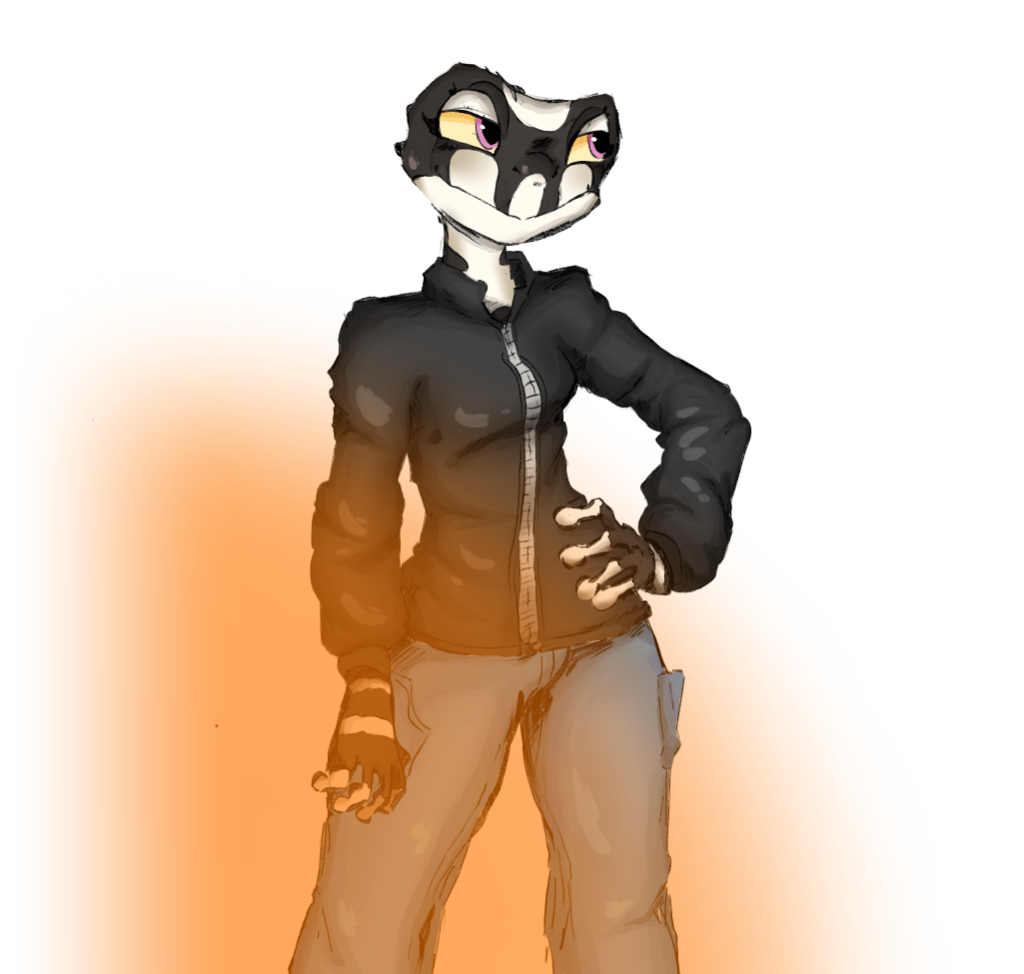
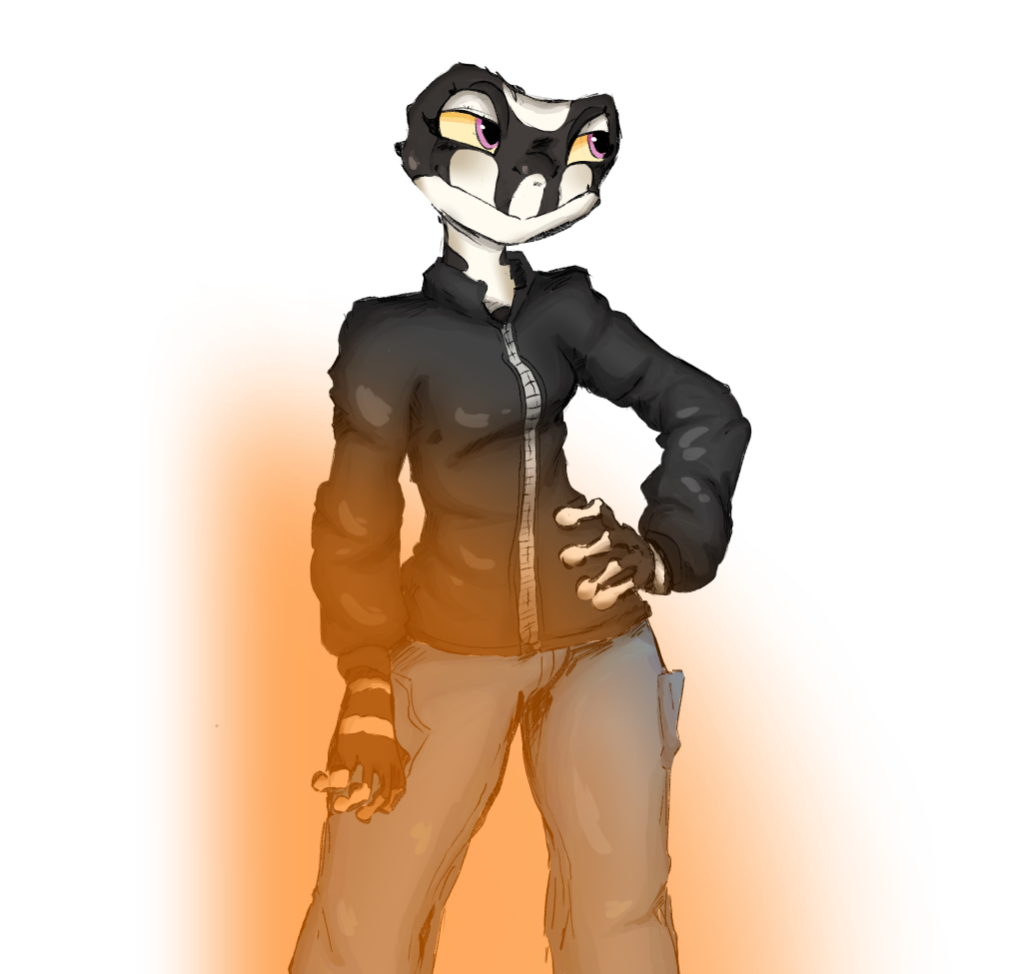
Aumenta intensidade do fade da Pera com curva quintica e margem transparente total (v1.4.7)

Changed region(s): [[0.0312, 0.3696, 0.25, 1.0]]

diff --git a/changelog.html b/changelog.html
@@ -369,7 +369,7 @@
 
           <div class="changelog-entry">
             <div class="changelog-header">
-              <span class="changelog-version-badge">v1.4.6</span>
+              <span class="changelog-version-badge">v1.4.7</span>
               <span class="changelog-version">Expans&atilde;o de Selos &amp; Balanceamento do Bestial</span>
             </div>
             <div class="changelog-date">12 de Agosto de 2026</div>
@@ -404,13 +404,13 @@
               <span class="tag-change" style="margin-left: var(--space-sm);">mudan&ccedil;a</span> Selos podem ser conjurados sem componentes ao marcar o corpo do consagrado.
               <span class="tag-change" style="margin-left: var(--space-sm);">mudan&ccedil;a</span> Alcat&eacute;ia Impar&aacute;vel limitada a +2 (Bestial).
               <span class="tag-change" style="margin-left: var(--space-sm);">mudan&ccedil;a</span> CDs padronizadas nos selos com teste.
-              <span class="tag-change" style="margin-left: var(--space-sm);">mudan&ccedil;a</span> Vers&atilde;o do sistema atualizada para v1.4.6.
+              <span class="tag-change" style="margin-left: var(--space-sm);">mudan&ccedil;a</span> Vers&atilde;o do sistema atualizada para v1.4.7.
             </div>
           </div>
 
           <div class="changelog-entry">
             <div class="changelog-header">
-              <span class="changelog-version-badge">v1.4.6</span>
+              <span class="changelog-version-badge">v1.4.7</span>
               <span class="changelog-version">Vida Fixa por N&iacute;vel</span>
             </div>
             <div class="changelog-date">7 de Agosto de 2026</div>
@@ -436,13 +436,13 @@
               <span class="tag-change">mudan&ccedil;a</span> Dados de Vida removidos de todas as classes.
               <span class="tag-change" style="margin-left: var(--space-sm);">mudan&ccedil;a</span> Vida fixa por n&iacute;vel (Base &times; N&iacute;vel + Sa&uacute;de).
               <span class="tag-change" style="margin-left: var(--space-sm);">mudan&ccedil;a</span> O Eterno agora vale 8 + Sa&uacute;de por n&iacute;vel.
-              <span class="tag-change" style="margin-left: var(--space-sm);">mudan&ccedil;a</span> Vers&atilde;o do sistema atualizada para v1.4.6.
+              <span class="tag-change" style="margin-left: var(--space-sm);">mudan&ccedil;a</span> Vers&atilde;o do sistema atualizada para v1.4.7.
             </div>
           </div>
 
           <div class="changelog-entry">
             <div class="changelog-header">
-              <span class="changelog-version-badge">v1.4.6_2</span>
+              <span class="changelog-version-badge">v1.4.7_2</span>
               <span class="changelog-version">Revis&atilde;o do Espectro</span>
             </div>
             <div class="changelog-date">18 de Junho de 2026</div>
@@ -461,13 +461,13 @@
               <span class="tag-change">mudan&ccedil;a</span> Estabilidade do Espectro sem limite m&aacute;ximo.
               <span class="tag-change" style="margin-left: var(--space-sm);">mudan&ccedil;a</span> Espectro n&atilde;o pode receber cura.
               <span class="tag-change" style="margin-left: var(--space-sm);">mudan&ccedil;a</span> Restri&ccedil;&otilde;es: Espectro n&atilde;o pode usar Protegidos e Sobrevivente.
-              <span class="tag-change" style="margin-left: var(--space-sm);">mudan&ccedil;a</span> Vers&atilde;o do sistema atualizada para v1.4.6_2.
+              <span class="tag-change" style="margin-left: var(--space-sm);">mudan&ccedil;a</span> Vers&atilde;o do sistema atualizada para v1.4.7_2.
             </div>
           </div>
 
           <div class="changelog-entry">
             <div class="changelog-header">
-              <span class="changelog-version-badge">v1.4.6_1</span>
+              <span class="changelog-version-badge">v1.4.7_1</span>
               <span class="changelog-version">Ilustra&ccedil;&otilde;es das Classes &amp; Ajustes</span>
             </div>
             <div class="changelog-date">18 de Junho de 2026</div>
@@ -492,13 +492,13 @@
               <span class="tag-change" style="margin-left: var(--space-sm);">mudan&ccedil;a</span> Lore da Centelha do Eterno expandido.
               <span class="tag-change" style="margin-left: var(--space-sm);">mudan&ccedil;a</span> Restri&ccedil;&atilde;o: Espectro + Eterno proibido.
               <span class="tag-fix" style="margin-left: var(--space-sm);">corre&ccedil;&atilde;o</span> "marcados" n&atilde;o &eacute; mais tratado como condi&ccedil;&atilde;o.
-              <span class="tag-change" style="margin-left: var(--space-sm);">mudan&ccedil;a</span> Vers&atilde;o do sistema atualizada para v1.4.6_1.
+              <span class="tag-change" style="margin-left: var(--space-sm);">mudan&ccedil;a</span> Vers&atilde;o do sistema atualizada para v1.4.7_1.
             </div>
           </div>
 
           <div class="changelog-entry">
             <div class="changelog-header">
-              <span class="changelog-version-badge">v1.4.6</span>
+              <span class="changelog-version-badge">v1.4.7</span>
               <span class="changelog-version">Revis&atilde;o do Lampin&aacute;rio &amp; Guias de Classe</span>
             </div>
             <div class="changelog-date">18 de Junho de 2026</div>
@@ -518,13 +518,13 @@
               <span class="tag-change" style="margin-left: var(--space-sm);">mudan&ccedil;a</span> Lampin&aacute;rio: ND 3 &rarr; 5.
               <span class="tag-change" style="margin-left: var(--space-sm);">mudan&ccedil;a</span> Lampin&aacute;rio: habilidades reestruturadas no padr&atilde;o "escolhe 1 de 2".
               <span class="tag-new" style="margin-left: var(--space-sm);">novo</span> Guias de classe para todas as 13 classes.
-              <span class="tag-change" style="margin-left: var(--space-sm);">mudan&ccedil;a</span> Vers&atilde;o do sistema atualizada para v1.4.6.
+              <span class="tag-change" style="margin-left: var(--space-sm);">mudan&ccedil;a</span> Vers&atilde;o do sistema atualizada para v1.4.7.
             </div>
           </div>
 
           <div class="changelog-entry">
             <div class="changelog-header">
-              <span class="changelog-version-badge">v1.4.6</span>
+              <span class="changelog-version-badge">v1.4.7</span>
               <span class="changelog-version">Rea&ccedil;&otilde;es Elementares</span>
             </div>
             <div class="changelog-date">18 de Junho de 2026</div>
@@ -537,13 +537,13 @@
             <div class="changelog-tag-row">
               <span class="tag-new">novo</span> Sistema de Rea&ccedil;&otilde;es Elementares (exclusivo Lampin&aacute;rio).
               <span class="tag-new" style="margin-left: var(--space-sm);">novo</span> Frequ&ecirc;ncia Elemental expandida para 9 elementos.
-              <span class="tag-change" style="margin-left: var(--space-sm);">mudan&ccedil;a</span> Vers&atilde;o do sistema atualizada para v1.4.6.
+              <span class="tag-change" style="margin-left: var(--space-sm);">mudan&ccedil;a</span> Vers&atilde;o do sistema atualizada para v1.4.7.
             </div>
           </div>
 
           <div class="changelog-entry">
             <div class="changelog-header">
-              <span class="changelog-version-badge">v1.4.6</span>
+              <span class="changelog-version-badge">v1.4.7</span>
               <span class="changelog-version">Classe O Eterno & Gloss&aacute;rio</span>
             </div>
             <div class="changelog-date">17 de Junho de 2026</div>
@@ -573,13 +573,13 @@
               <span class="tag-new" style="margin-left: var(--space-sm);">novo</span> Classe Lampin&aacute;rio com 4 Turmas.
               <span class="tag-new" style="margin-left: var(--space-sm);">novo</span> Gloss&aacute;rio de termos.
               <span class="tag-new" style="margin-left: var(--space-sm);">novo</span> &Iacute;ndice inicial reformulado com se&ccedil;&otilde;es e todas as p&aacute;ginas.
-              <span class="tag-change" style="margin-left: var(--space-sm);">mudan&ccedil;a</span> Vers&atilde;o do sistema atualizada para v1.4.6.
+              <span class="tag-change" style="margin-left: var(--space-sm);">mudan&ccedil;a</span> Vers&atilde;o do sistema atualizada para v1.4.7.
             </div>
           </div>
 
           <div class="changelog-entry">
             <div class="changelog-header">
-              <span class="changelog-version-badge">v1.4.6</span>
+              <span class="changelog-version-badge">v1.4.7</span>
               <span class="changelog-version">Condi&ccedil;&otilde;es Interativas & Criador Reformulado</span>
             </div>
             <div class="changelog-date">16 de Junho de 2026</div>
@@ -605,13 +605,13 @@
             </div>
 
             <div class="changelog-tag-row">
-              <span class="tag-change">mudança</span> Versão do sistema atualizada para v1.4.6.
+              <span class="tag-change">mudança</span> Versão do sistema atualizada para v1.4.7.
             </div>
           </div>
 
           <div class="changelog-entry">
             <div class="changelog-header">
-              <span class="changelog-version-badge">v1.4.6</span>
+              <span class="changelog-version-badge">v1.4.7</span>
               <span class="changelog-version">Raça Espectro</span>
             </div>
             <div class="changelog-date">14 de Junho de 2026</div>
@@ -621,7 +621,7 @@
               <li><span class="tag-new">novo</span> Mecânicas únicas: Estabilidade Cósmica (1d4), Instável (5 testes de morte, CT 19), Estalo de Estática (reações extras).</li>
               <li><span class="tag-new">novo</span> Vínculo de Anomalia com 4 ramificações: Desbordamento, Deslocamento, Corrupção de Arquivo e Tela Azul.</li>
               <li><span class="tag-new">novo</span> Habilidades nativas: Incorporação e Visão Espectral.</li>
-              <li><span class="tag-change">mudança</span> Versão do sistema atualizada para v1.4.6.</li>
+              <li><span class="tag-change">mudança</span> Versão do sistema atualizada para v1.4.7.</li>
             </ul>
           </div>
 

diff --git a/js/mesa.js b/js/mesa.js
@@ -1036,8 +1036,8 @@ const MesaApp = {
       raca: 'Animalesco',
       arquetipo: 'Rebelde',
       classe: 'Adivinha',
-      imagem: 'assets/pera.png?v=1.4.6',
-      avatar: 'assets/pera_avatar.png?v=1.4.6',
+      imagem: 'assets/pera.png?v=1.4.7',
+      avatar: 'assets/pera_avatar.png?v=1.4.7',
       hp: 12, hpMax: 12,
       pe: 10, peMax: 10,
       st: 0, stMax: 24,
@@ -1066,7 +1066,7 @@ const MesaApp = {
       id: 5,
       slot: 5,
       token: 'J8W4',
-      nome: 'Willian Kars', idade: '17 anos', altura: '1,86m', raca: 'Animalesco', arquetipo: 'Valentão', imagem: 'assets/william.png?v=1.4.6', avatar: 'assets/william_avatar.png?v=1.4.6',
+      nome: 'Willian Kars', idade: '17 anos', altura: '1,86m', raca: 'Animalesco', arquetipo: 'Valentão', imagem: 'assets/william.png?v=1.4.7', avatar: 'assets/william_avatar.png?v=1.4.7',
       hp: 15, hpMax: 15,
       pe: 10, peMax: 10,
       st: 0, stMax: 28,
@@ -1371,7 +1371,7 @@ const MesaApp = {
 
       if (!this.state.players[3]) {
         this.state.players[3] = {
-          id: 4, slot: 4, token: 'H2Q9', nome: 'Pera Hylidae da Silva', idade: '18 anos', altura: '1,58m', raca: 'Animalesco', arquetipo: 'Rebelde', classe: 'Adivinha', imagem: 'assets/pera.png?v=1.4.6', avatar: 'assets/pera_avatar.png?v=1.4.6',
+          id: 4, slot: 4, token: 'H2Q9', nome: 'Pera Hylidae da Silva', idade: '18 anos', altura: '1,58m', raca: 'Animalesco', arquetipo: 'Rebelde', classe: 'Adivinha', imagem: 'assets/pera.png?v=1.4.7', avatar: 'assets/pera_avatar.png?v=1.4.7',
           hp: 12, hpMax: 12, pe: 10, peMax: 10, st: 0, stMax: 24, stressPoints: 0, stressPointsMax: 6,
           atributos: { 'Mente': 'd4', 'Saúde': 'd8', 'Vigor': 'd12', 'Força': 'd16' },
           bonus: [
@@ -1389,7 +1389,7 @@ const MesaApp = {
 
       if (!this.state.players[4]) {
         this.state.players[4] = {
-          id: 5, slot: 5, token: 'J8W4', nome: 'Willian Kars', idade: '17 anos', altura: '1,86m', raca: 'Animalesco', arquetipo: 'Valentão', imagem: 'assets/william.png?v=1.4.6', avatar: 'assets/william_avatar.png?v=1.4.6',
+          id: 5, slot: 5, token: 'J8W4', nome: 'Willian Kars', idade: '17 anos', altura: '1,86m', raca: 'Animalesco', arquetipo: 'Valentão', imagem: 'assets/william.png?v=1.4.7', avatar: 'assets/william_avatar.png?v=1.4.7',
           hp: 15, hpMax: 15, pe: 10, peMax: 10, st: 0, stMax: 28, stressPoints: 0, stressPointsMax: 6,
           atributos: { 'Saúde': 'd4', 'Vigor': 'd16', 'Força': 'd12', 'Mente': 'd8' },
           bonus: [
@@ -3328,7 +3328,7 @@ const MesaAreaManager = {
     // Atualiza o selo visual de versão e área em tempo real no canto inferior
     const badge = document.getElementById('mesa-version-badge');
     if (badge) {
-      badge.textContent = `v1.4.6`;
+      badge.textContent = `v1.4.7`;
     }
 
     // Adiciona classe de transição suave de atmosfera e cor no body

diff --git a/mesa.html b/mesa.html
@@ -11,9 +11,9 @@
   <link rel="preconnect" href="https://fonts.googleapis.com">
   <link rel="preconnect" href="https://fonts.gstatic.com" crossorigin>
   <link href="https://fonts.googleapis.com/css2?family=Cinzel:wght@600;700;800;900&family=Merriweather:ital,wght@0,300;0,400;0,700;1,300&family=Playfair+Display:ital,wght@0,600;0,700;0,800;1,400&display=swap" rel="stylesheet">
-  <link rel="stylesheet" href="css/variables.css?v=1.4.6">
-  <link rel="stylesheet" href="css/components.css?v=1.4.6">
-  <link rel="stylesheet" href="css/mesa.css?v=1.4.6">
+  <link rel="stylesheet" href="css/variables.css?v=1.4.7">
+  <link rel="stylesheet" href="css/components.css?v=1.4.7">
+  <link rel="stylesheet" href="css/mesa.css?v=1.4.7">
   <script src="https://cdn.jsdelivr.net/npm/@supabase/supabase-js@2"></script>
 </head>
 <body class="mesa-body">
@@ -858,11 +858,11 @@ Ao empurrar a porta, o feixe de luz da lanterna revela o caos. O quarto é um ab
       <!-- Biblioteca Marked.js para renderização de Markdown -->
     <script src="https://cdn.jsdelivr.net/npm/marked/marked.min.js"></script>
 
-<script src="js/campaign-data.js?v=1.4.6"></script>
+<script src="js/campaign-data.js?v=1.4.7"></script>
 
-<script src="js/mesa.js?v=1.4.6"></script>
+<script src="js/mesa.js?v=1.4.7"></script>
   <!-- Versao da Mesa -->
-  <div id="mesa-version-badge" class="mesa-version">v1.4.6</div>
+  <div id="mesa-version-badge" class="mesa-version">v1.4.7</div>
 
   <!-- ABERTURA OVERLAY -->
   <div id="abertura-overlay" class="abertura-overlay">

diff --git a/js/wuitter.js b/js/wuitter.js
@@ -120,7 +120,7 @@ const DEFAULT_ACCOUNTS = [
     handle: '@pera',
     bio: 'Navegadora e cartógrafa das correntes de éter. Conheço cada beco e cada rota de fuga.',
     avatarLetter: 'P',
-    avatarImage: 'assets/pera_avatar.png?v=1.4.6',
+    avatarImage: 'assets/pera_avatar.png?v=1.4.7',
     avatarColor: '#f59e0b',
     badge: 'none',
     isMaster: false
@@ -138,7 +138,7 @@ const DEFAULT_ACCOUNTS = [
       handle: '@willian',
       bio: 'Armeiro e entusiasta de engenhocas mecǽnicas. Nunca confie em um mecanismo que nǜo faa barulho.',
       avatarLetter: 'W',
-      avatarImage: 'assets/william_avatar.png?v=1.4.6',
+      avatarImage: 'assets/william_avatar.png?v=1.4.7',
     avatarColor: '#06b6d4',
     badge: 'none',
     isMaster: false
